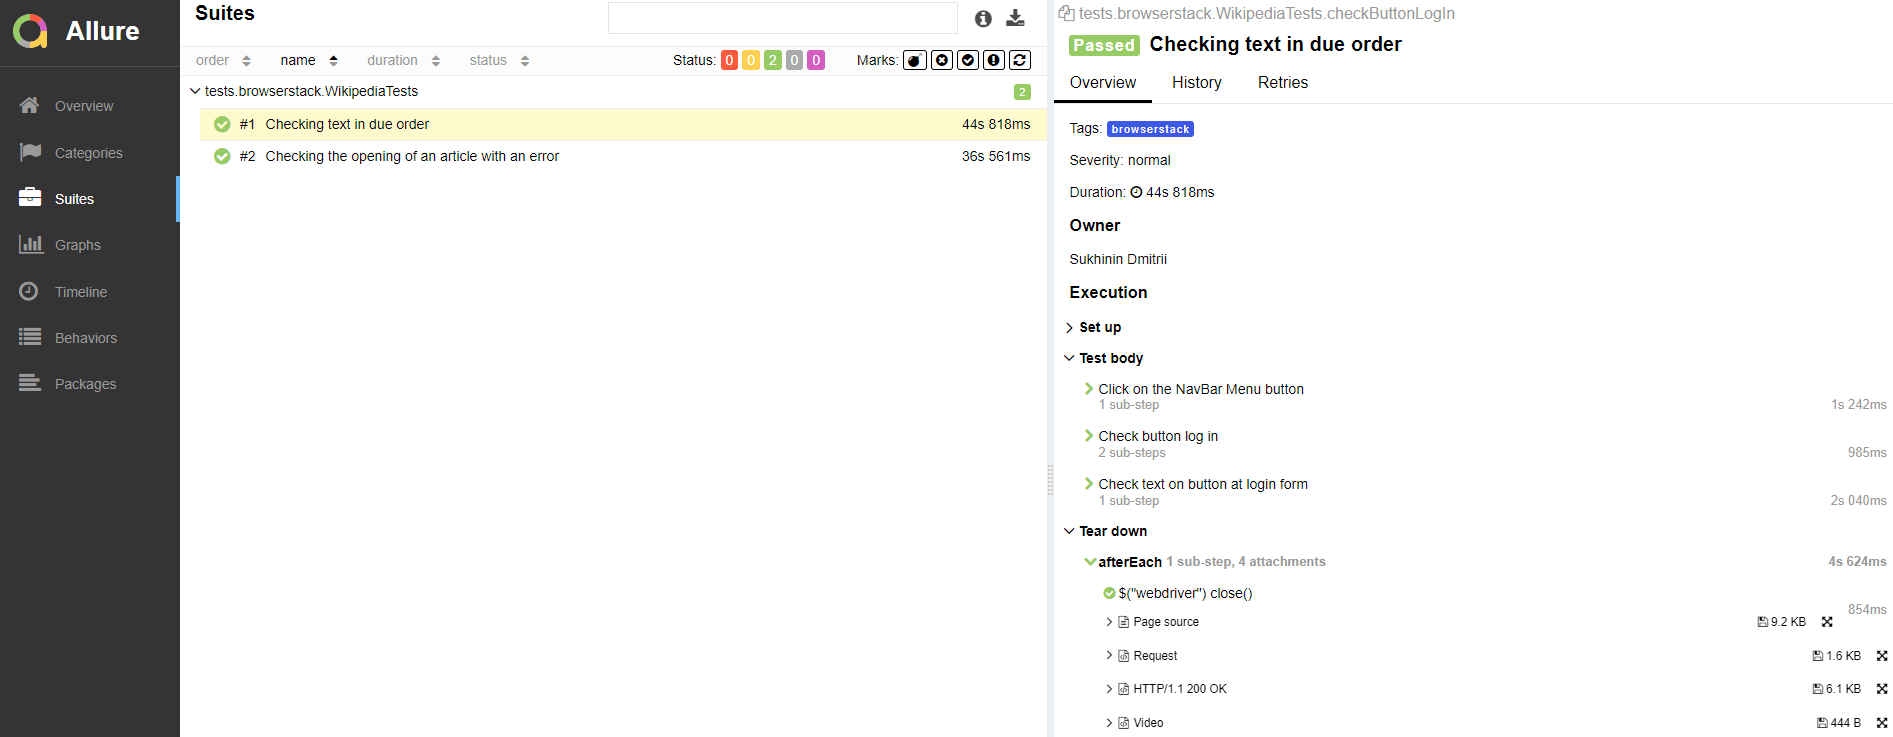
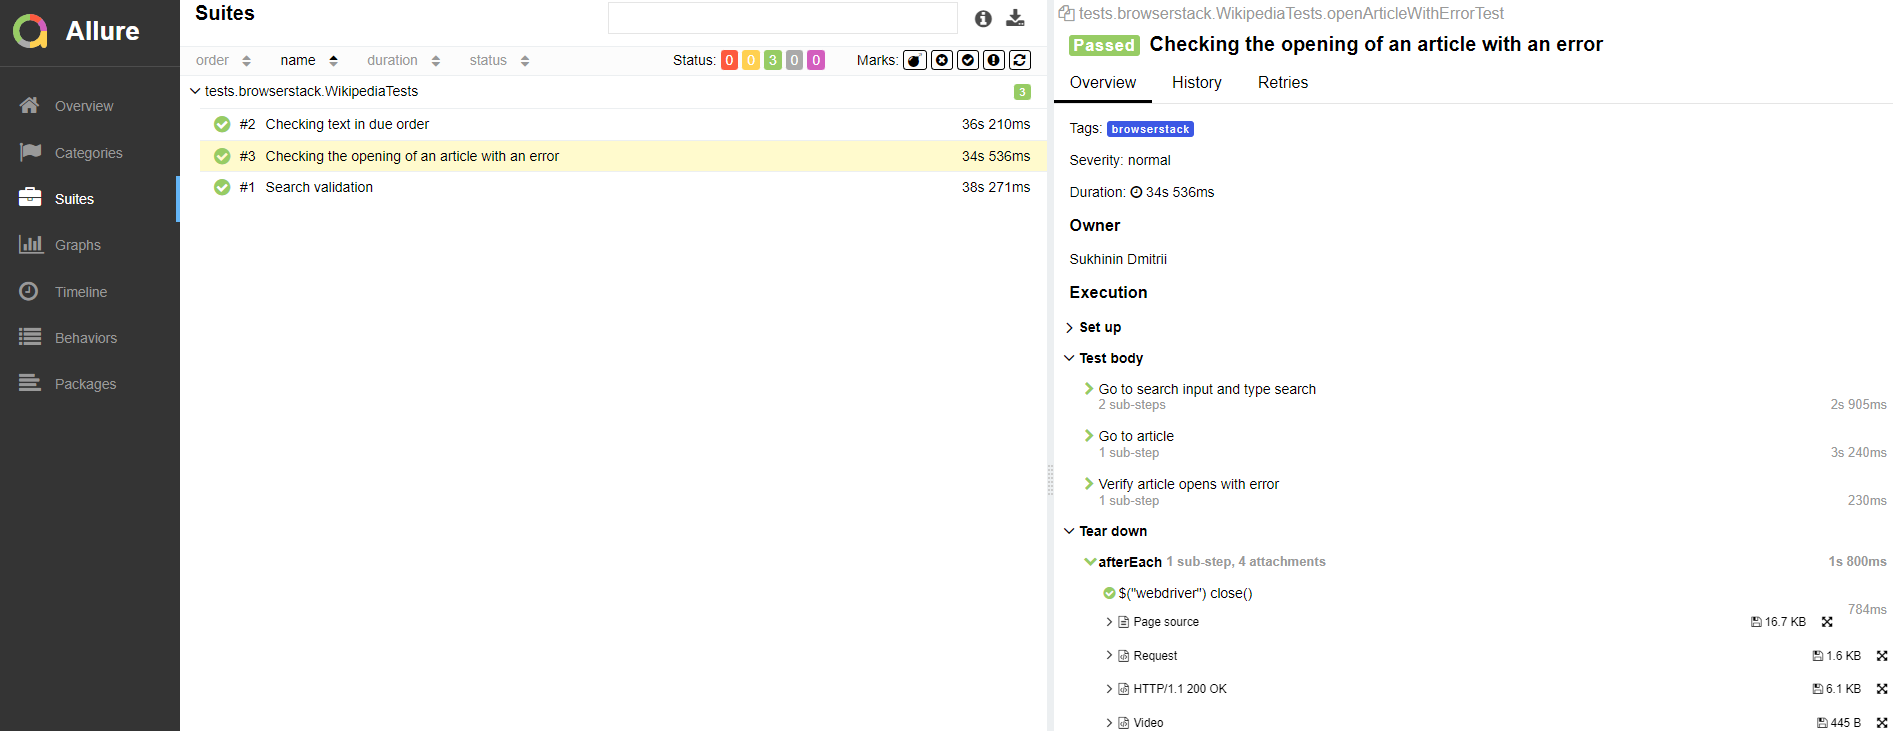
added media

diff --git a/README.md b/README.md
@@ -35,7 +35,8 @@
 ## :heavy_check_mark: Тест кейсы
 
 - Проверка прохождения начальных экранов
-- Проверка перехода на страницу входа 
+- Проверка перехода на страницу входа
+- Проверка поиска
 - Проверка корректного открытия статьи
 - Проверка некорректного открытия статьи
 
